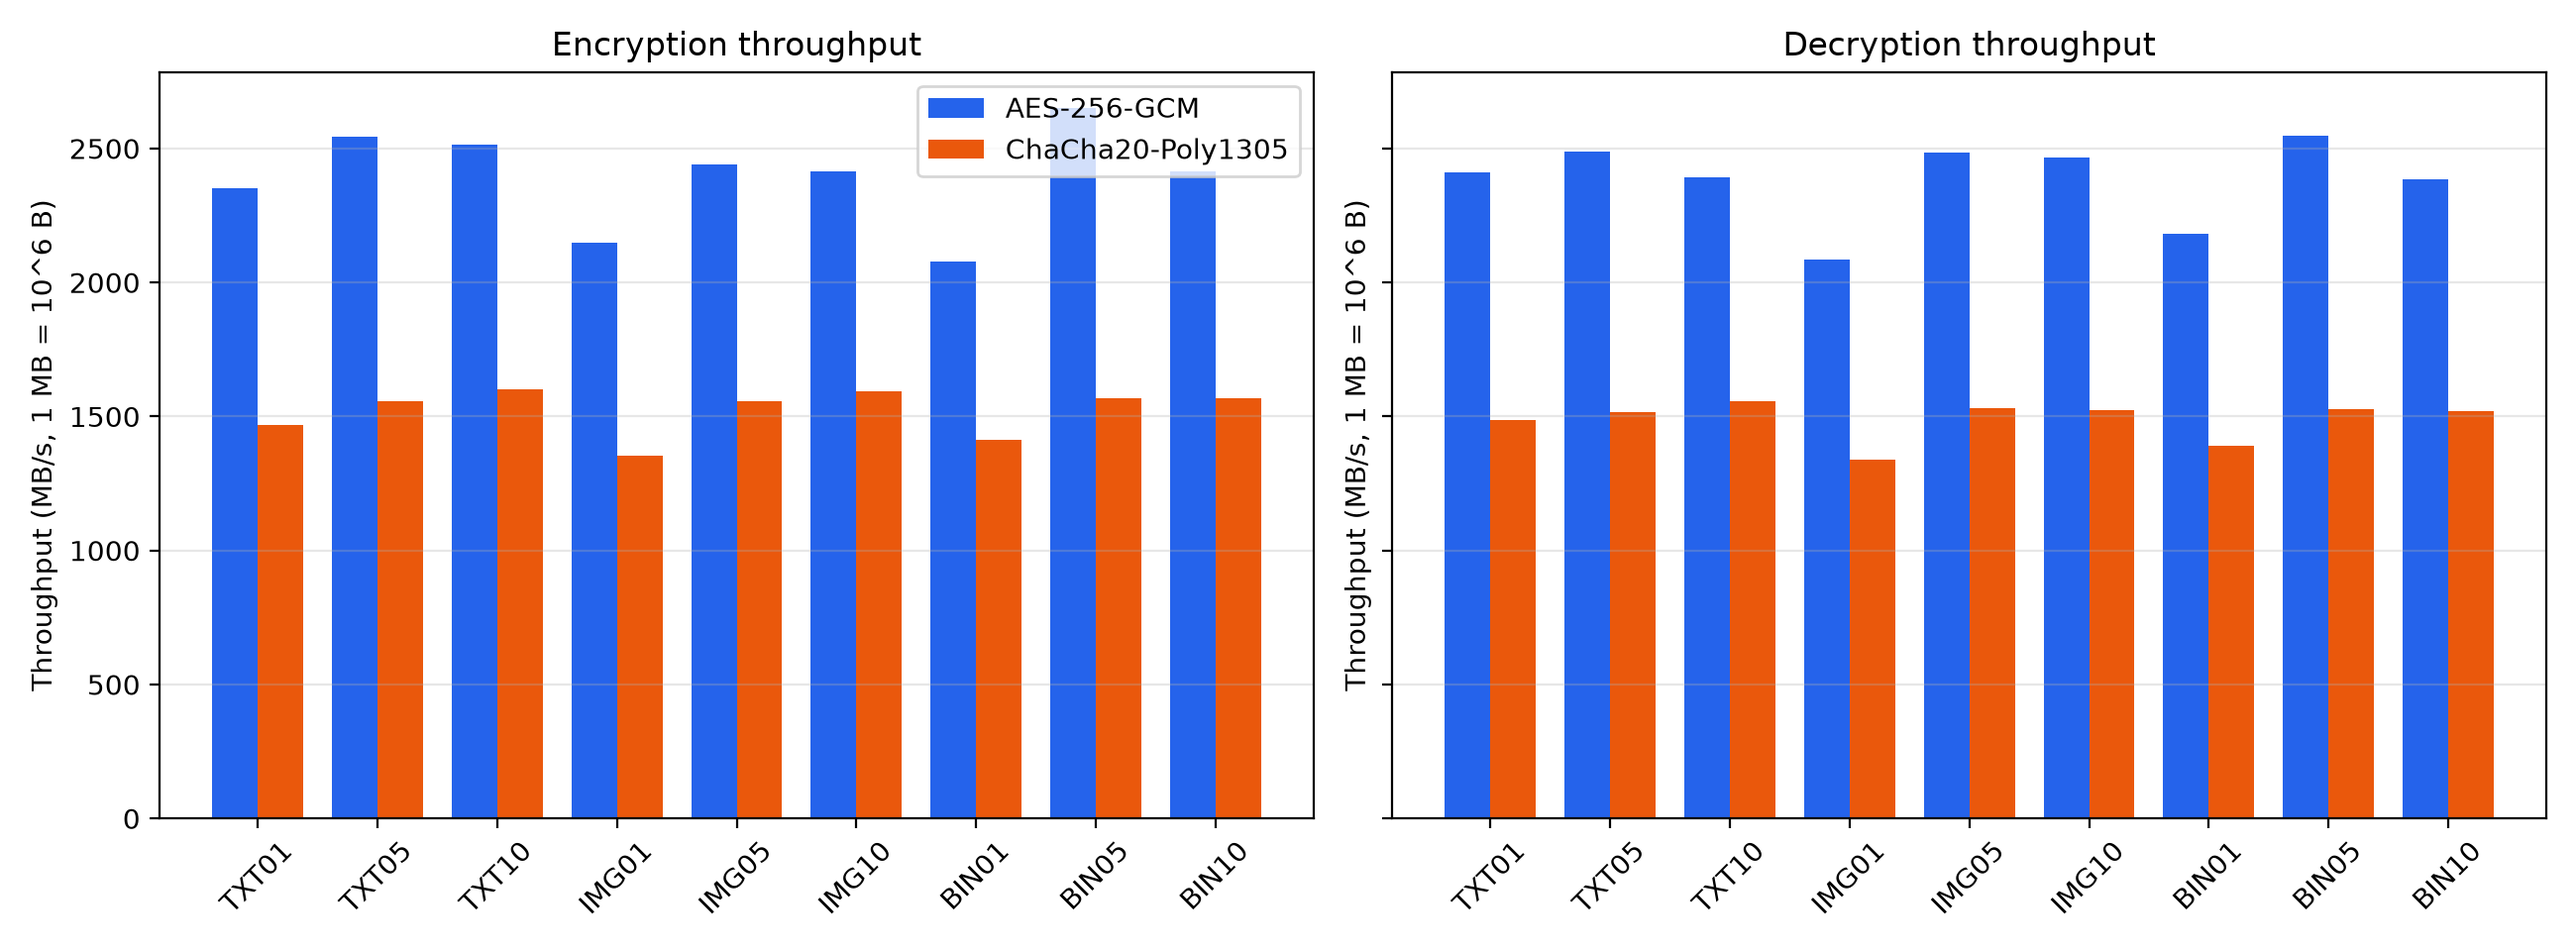
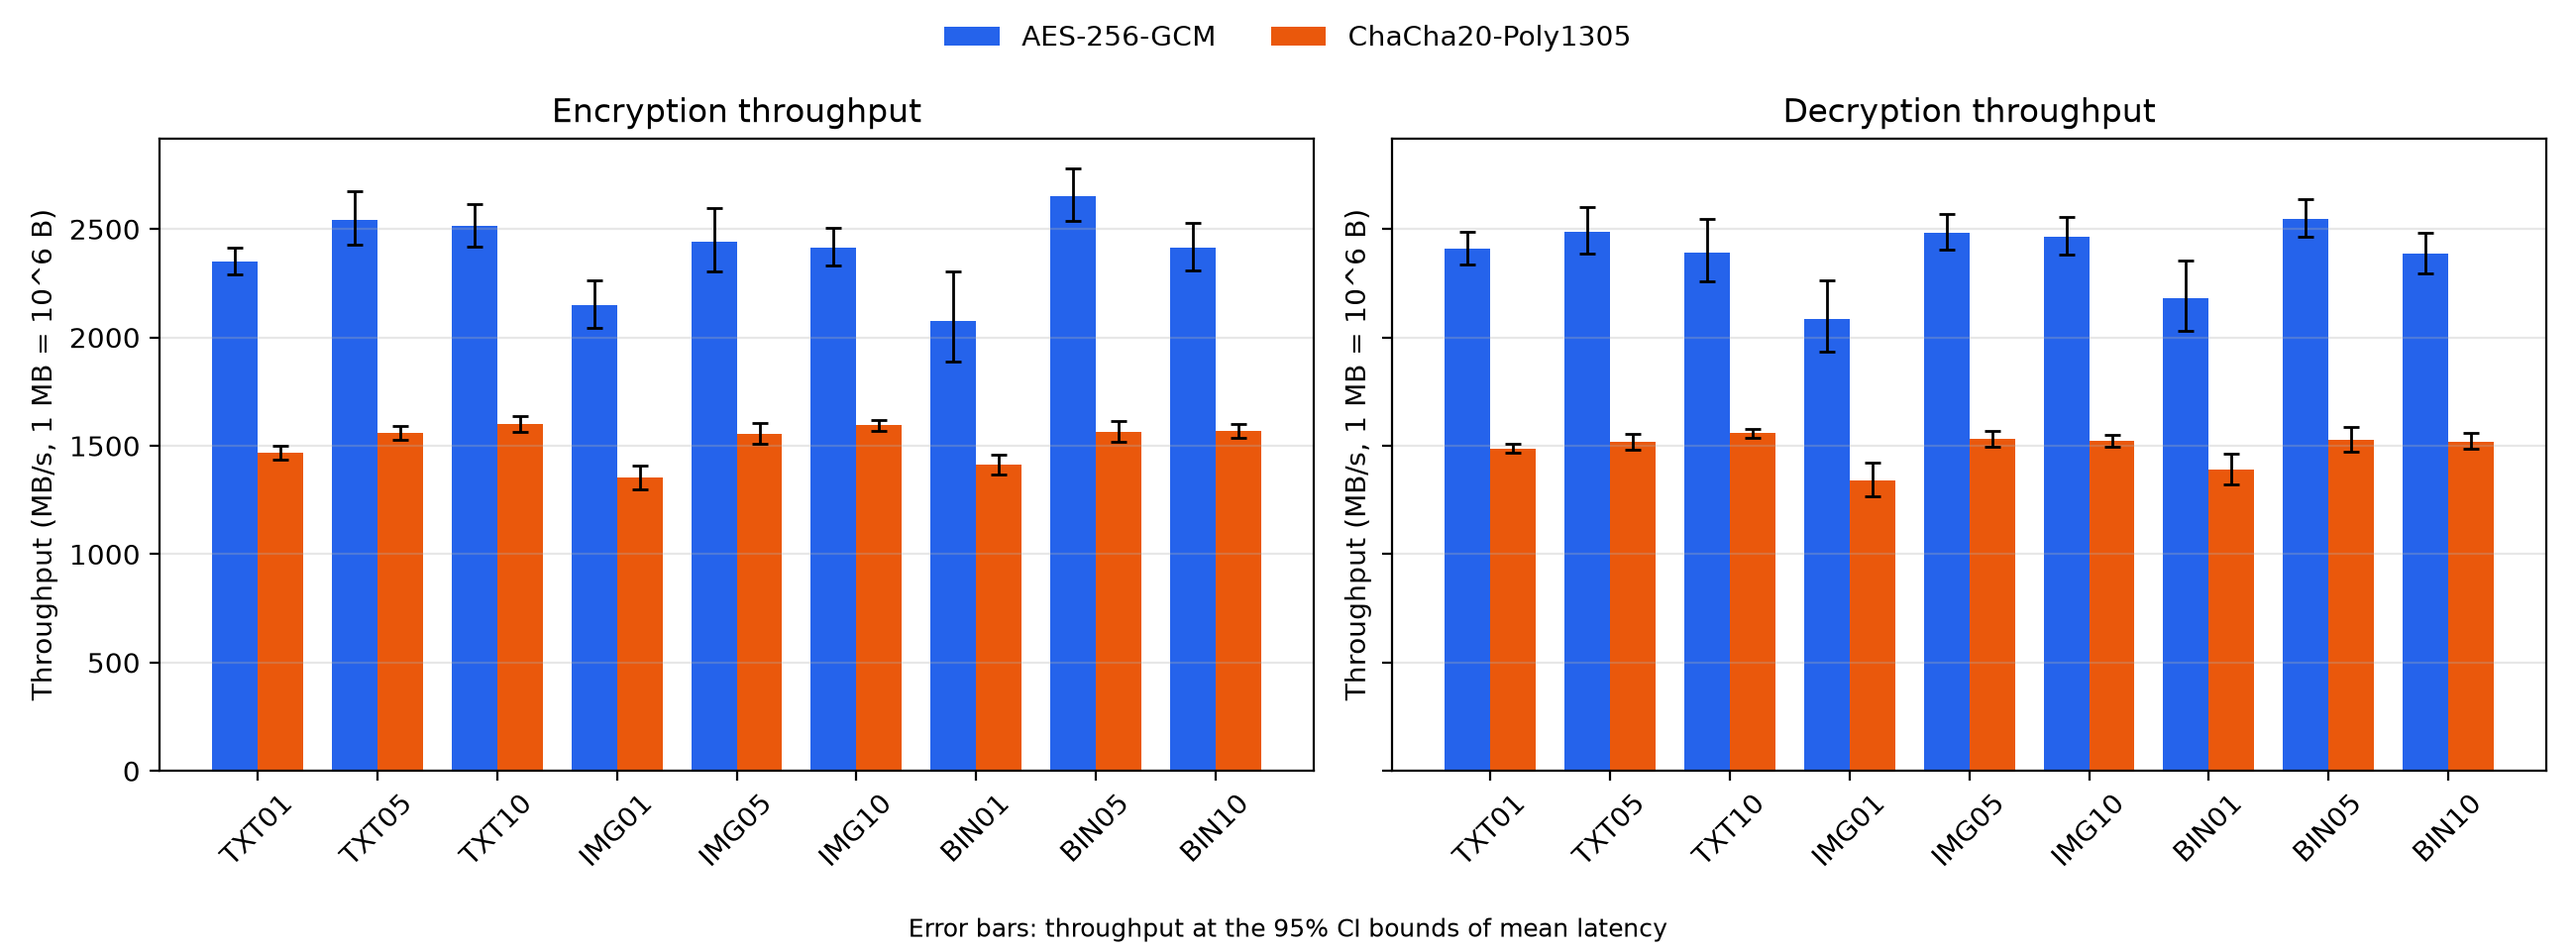
Fix throughput legend overlap, add CI error bars and nonce check, document S01 provenance

diff --git a/benchmark.py b/benchmark.py
@@ -66,10 +66,13 @@ def main():
 
     datasets = load_manifest(args.manifest)
     rows = []
+    nonces_checked = 0
+    nonce_duplicates = 0
     for ds_id, dtype, data in datasets:
         B = len(data)
         # Chuẩn bị ngoài vùng đo: key mới cho từng scenario, cipher object, nonce counter
         state = {}
+        seen_nonces = {name: set() for name in ALGS}
         for name in ALGS:
             state[name] = (make_cipher(name, new_key()), NonceCounter())
 
@@ -78,6 +81,7 @@ def main():
             cipher, ctr = state[name]
             for _ in range(args.warmup):
                 n = ctr.next()
+                seen_nonces[name].add(n)
                 cipher.decrypt(n, cipher.encrypt(n, data, None), None)
 
         # Các vòng đo; vòng lẻ AES trước, vòng chẵn ChaCha20 trước
@@ -86,6 +90,7 @@ def main():
             for pos, name in enumerate(order, start=1):
                 cipher, ctr = state[name]
                 nonce = ctr.next()                       # cấp nonce trước khi đo
+                seen_nonces[name].add(nonce)
                 t0 = time.perf_counter_ns()
                 out = cipher.encrypt(nonce, data, None)
                 t1 = time.perf_counter_ns()
@@ -102,6 +107,15 @@ def main():
                     data_type=dtype, actual_size_bytes=B, run_index=run, execution_order=pos,
                     enc_ns=t1 - t0, dec_ns=t3 - t2, api_output_bytes=len(out),
                     package_bytes=package, overhead_bytes=package - B, roundtrip_ok=ok))
+        # Xác nhận nonce không lặp: mỗi key dùng đúng warmup+runs nonce, tất cả đều khác nhau
+        for name in ALGS:
+            used = state[name][1].used
+            unique = len(seen_nonces[name])
+            if used != args.warmup + args.runs or unique != used:
+                raise SystemExit(f"ERROR: {name} {ds_id} used {used} nonces "
+                                 f"({unique} unique), expected {args.warmup + args.runs}")
+            nonces_checked += unique
+            nonce_duplicates += used - unique
         print(f"{ds_id} done")
 
     with open(args.out, "w", newline="", encoding="utf-8") as f:
@@ -119,6 +133,9 @@ def main():
         "execution_order": "odd rounds AES first, even rounds ChaCha20 first",
         "timing_boundary": "only encrypt()/decrypt() API calls, perf_counter_ns",
         "output_package": "nonce || ciphertext || tag",
+        "nonce_check": {"keys": len(datasets) * len(ALGS),
+                        "nonces_per_key": args.warmup + args.runs,
+                        "total_nonces": nonces_checked, "duplicates": nonce_duplicates},
     }
     with open("config.json", "w", encoding="utf-8") as f:
         json.dump(config, f, indent=2)

diff --git a/analyze.py b/analyze.py
@@ -101,18 +101,39 @@ def plot_throughput(s):
     fig, axes = plt.subplots(1, 2, figsize=(13, 4.8), sharey=True)
     order = DATASET_ORDER
     w = 0.38
+    error_bars_drawn = True
     for ax, (op, label) in zip(axes, [("enc", "Encryption"), ("dec", "Decryption")]):
         for i, alg in enumerate(ALGS):
             d = s[s.algorithm == alg].set_index("dataset_id").loc[order]
             xs = [k + (i - 0.5) * w for k in range(len(order))]
-            ax.bar(xs, d[f"{op}_MB_s"], width=w, label=alg, color=COLORS[alg])
+            mean = d[f"{op}_MB_s"]
+            # B/mean(t) chỉ đổi được thành khoảng tin cậy hữu hạn khi cận dưới CI của
+            # latency > 0; với ít lần đo, CI có thể chạm 0 và cận trên throughput là vô hạn.
+            ci_low = d[f"{op}_ci95_low_ms"]
+            if (ci_low <= 0).any():
+                bad = ", ".join(d.index[ci_low <= 0])
+                print(f"WARNING: {label} throughput error bars omitted: "
+                      f"95% CI lower latency <= 0 for {bad}")
+                error_bars_drawn = False
+                ax.bar(xs, mean, width=w, label=alg, color=COLORS[alg])
+            else:
+                mb = d["actual_size_bytes"] / 1e6
+                lo = mb / (d[f"{op}_ci95_high_ms"] / 1e3)   # throughput ứng với cận trên latency
+                hi = mb / (ci_low / 1e3)                    # throughput ứng với cận dưới latency
+                yerr = [mean - lo, hi - mean]
+                ax.bar(xs, mean, width=w, label=alg, color=COLORS[alg],
+                       yerr=yerr, capsize=3, error_kw={"elinewidth": 1})
         ax.set_xticks(range(len(order)))
         ax.set_xticklabels(order, rotation=45)
         ax.set_title(f"{label} throughput")
         ax.set_ylabel("Throughput (MB/s, 1 MB = 10^6 B)")
         ax.grid(axis="y", alpha=0.3)
-    axes[0].legend()
-    fig.tight_layout()
+    handles, labels = axes[0].get_legend_handles_labels()
+    fig.legend(handles, labels, loc="upper center", ncol=2, frameon=False)
+    fig.tight_layout(rect=(0, 0.05, 1, 0.93))
+    note = ("Error bars: throughput at the 95% CI bounds of mean latency" if error_bars_drawn
+            else "Error bars omitted where the 95% CI of mean latency includes 0")
+    fig.text(0.5, 0.015, note, ha="center", fontsize=9)
     fig.savefig("fig_throughput.png", dpi=200)
 
 

diff --git a/collect_env.py b/collect_env.py
@@ -159,7 +159,7 @@ def main():
         "source_revision": revision,
         "source_revision_type": revision_type,
         "source_dirty": dirty,
-        "execution": "native (edit if running in a VM)",
+        "execution": "native",
     }
     with open("environment.json", "w", encoding="utf-8") as f:
         json.dump(env, f, indent=2, ensure_ascii=False)
